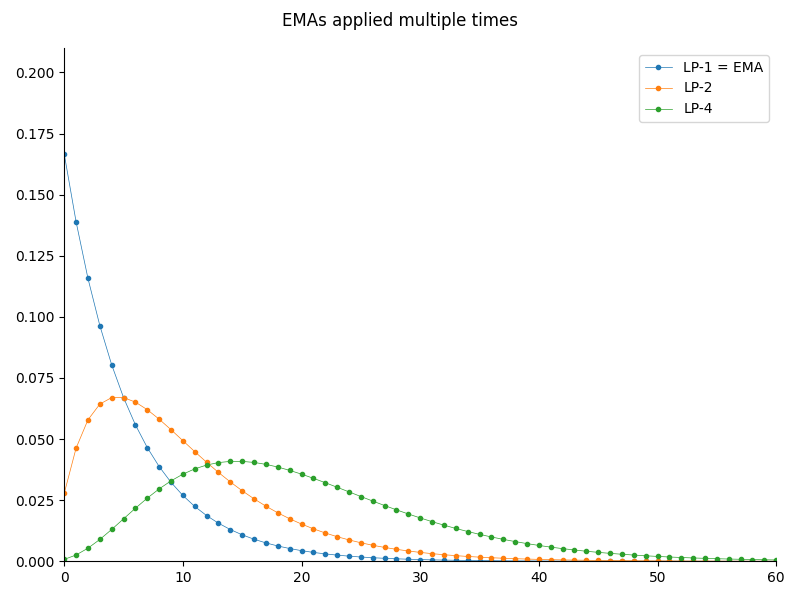
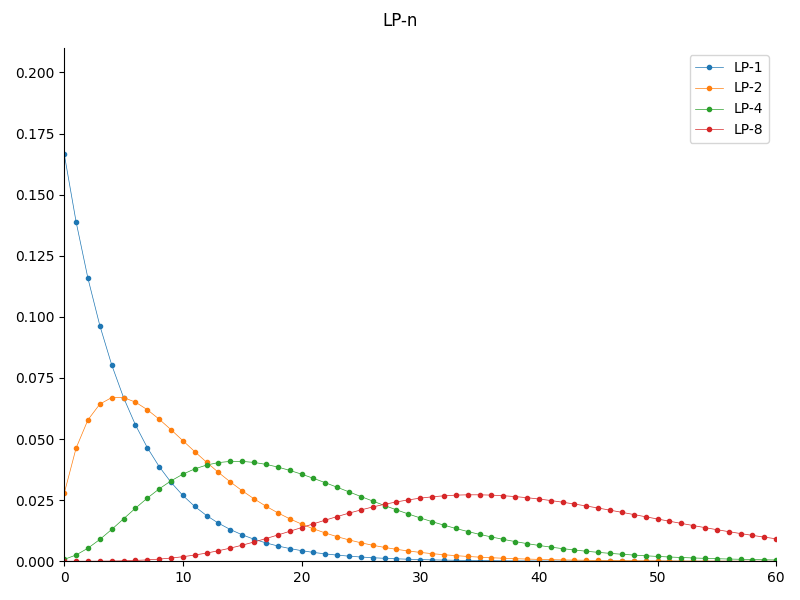
NLP WIP

diff --git a/src/python/nice_lowpass.py b/src/python/nice_lowpass.py
@@ -47,14 +47,14 @@ marker = '.'
 lw = 0.5
 figsize = [8, 6]
 
-# SMA & EMA
+# SMA & LP-1
 fig, ax = plt.subplots(figsize=figsize)
 fig.suptitle('Simple and exponential moving averages')
 ax.plot(t, y_sma, marker=marker, drawstyle=drawstyle, lw=lw, label=f'FIR')
 ax.plot(t, lp1.impulse(T+1), marker=marker, drawstyle=drawstyle, lw=lw, label=f'LP-1')
 finalize_plot(tau, "sma+ema.png")
 
-# # SMA, EMA & NLP
+# # SMA, LP-1 & NLP
 fig, ax = plt.subplots(figsize=figsize)
 fig.suptitle('Adding a "nice low-pass" to the mix')
 ax.plot(t, y_sma, marker=marker, drawstyle=drawstyle, lw=lw, label=f'FIR')
@@ -70,7 +70,7 @@ finalize_plot(tau, "sma+ema+nlp4.png")
 #     nlp = nice_lowpass(order=order, tau=tau)
 #     label = f'NLP-{order}'
 #     if order == 1:
-#         label += f' = EMA'
+#         label += f' = LP-1'
 #     ax.plot(t, nlp.impulse(T+1), marker=marker, drawstyle=drawstyle, lw=lw, label=label)
 # finalize_plot(tau, "sma+nlps.png")
 
@@ -81,13 +81,11 @@ lp4 = ZeroPole.lp1(w_pole=4/tau)**4
 ax.plot(t, lp4.impulse(T + 1), marker=marker, drawstyle=drawstyle, lw=lw)
 finalize_plot(tau, "bump.png", legend=False)
 
-# EMA^n
+# LP-n
 fig, ax = plt.subplots(figsize=figsize)
-fig.suptitle('EMAs applied multiple times')
-for order in [1, 2, 4]:
+fig.suptitle('LP-n')
+for order in [1, 2, 4, 8]:
     nlp = ZeroPole.lp1(w_pole=4/tau)**order
     label = f'LP-{order}'
-    if order == 1:
-        label += f' = EMA'
     ax.plot(t, nlp.impulse(T+1), marker=marker, drawstyle=drawstyle, lw=lw, label=label)
 finalize_plot(tau, "lps.png", y_lim=4.2/tau)
